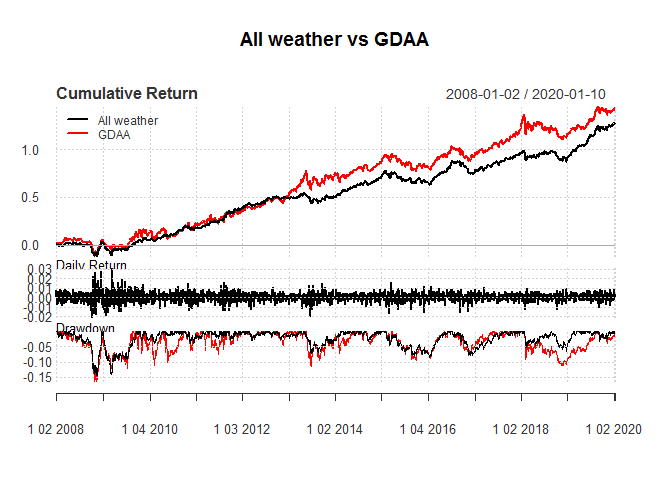
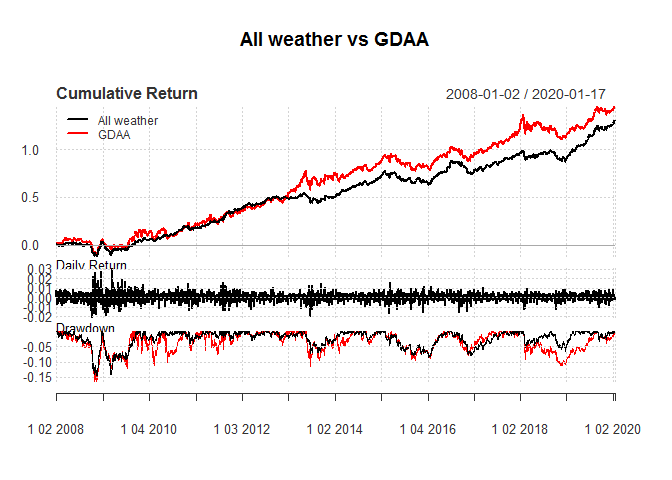
updates

diff --git a/all_weather.md b/all_weather.md
@@ -72,7 +72,7 @@ names(Port_all_net) = 'Returns_allweather'
 
 |             | 연평균수익률 | 누적수익률 | 최대낙폭 | 연평균표준편차 |
 |-------------|:------------:|:----------:|:--------:|:--------------:|
-| All Weather |   0.0715664  |  1.289965  |  0.14482 |    0.072175    |
+| All Weather |   0.0717955  |  1.299518  |  0.14482 |    0.0721303   |
 
 ### GDAA(Global Dynamic Asset Allocation) 전략을 통한 포트폴리오
 
@@ -199,7 +199,7 @@ names(Port_gdaa_net) = 'Returns_gdaa'
 
 |      | 연평균수익률 | 누적수익률 |  최대낙폭 | 연평균표준편차 |
 |------|:------------:|:----------:|:---------:|:--------------:|
-| GDAA |   0.0795225  |  1.435839  | 0.1631827 |    0.1040536   |
+| GDAA |   0.0801885  |  1.459283  | 0.1631827 |    0.1039779   |
 
 ### All weather vs GDAA
 
@@ -217,5 +217,5 @@ charts.PerformanceSummary(portfolios, main = 'All weather vs GDAA')
 
 |             | 연평균수익률 | 누적수익률 |  최대낙폭 | 연평균표준편차 |
 |-------------|:------------:|:----------:|:---------:|:--------------:|
-| All Weather |   0.0715664  |  1.289965  | 0.1448200 |    0.0721750   |
-| GDAA        |   0.0795225  |  1.435839  | 0.1631827 |    0.1040536   |
+| All Weather |   0.0717955  |  1.299518  | 0.1448200 |    0.0721303   |
+| GDAA        |   0.0801885  |  1.459283  | 0.1631827 |    0.1039779   |
